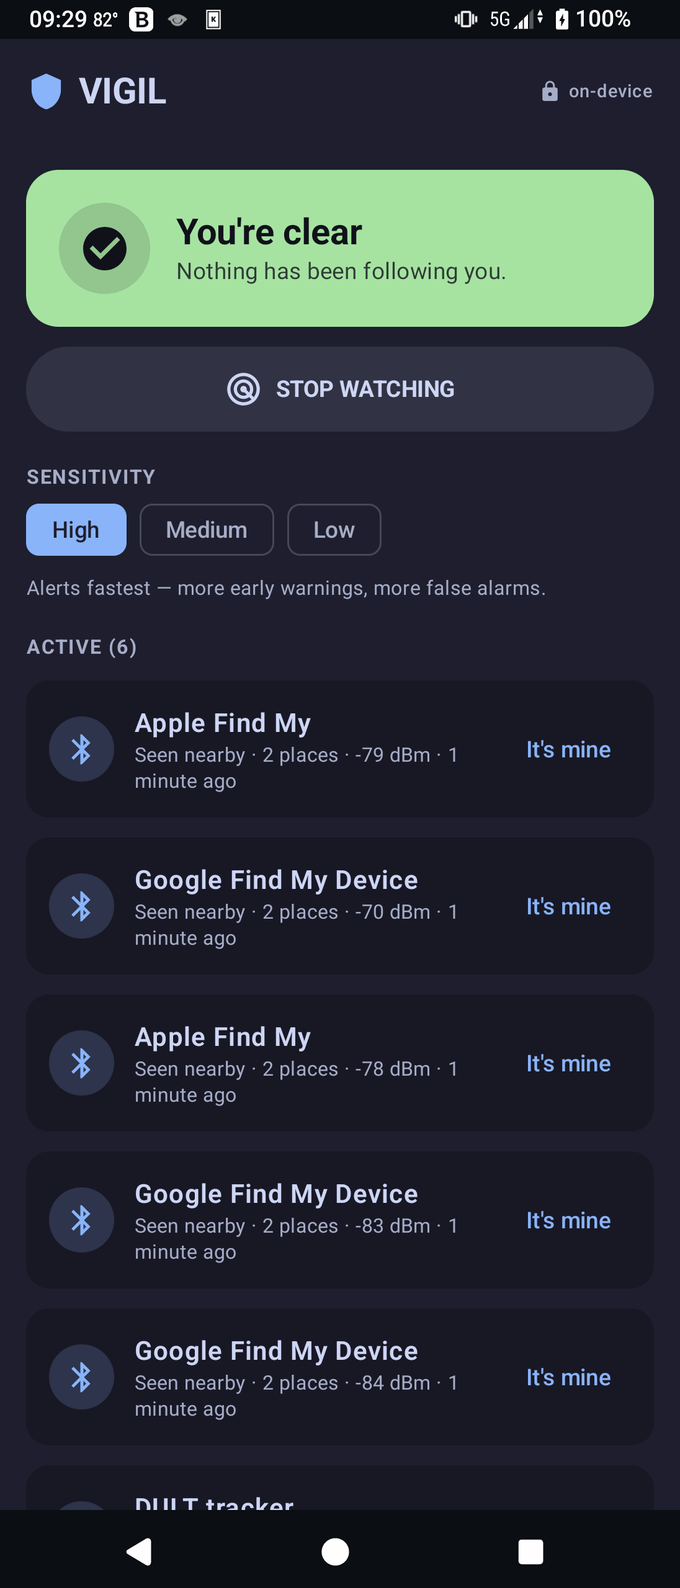
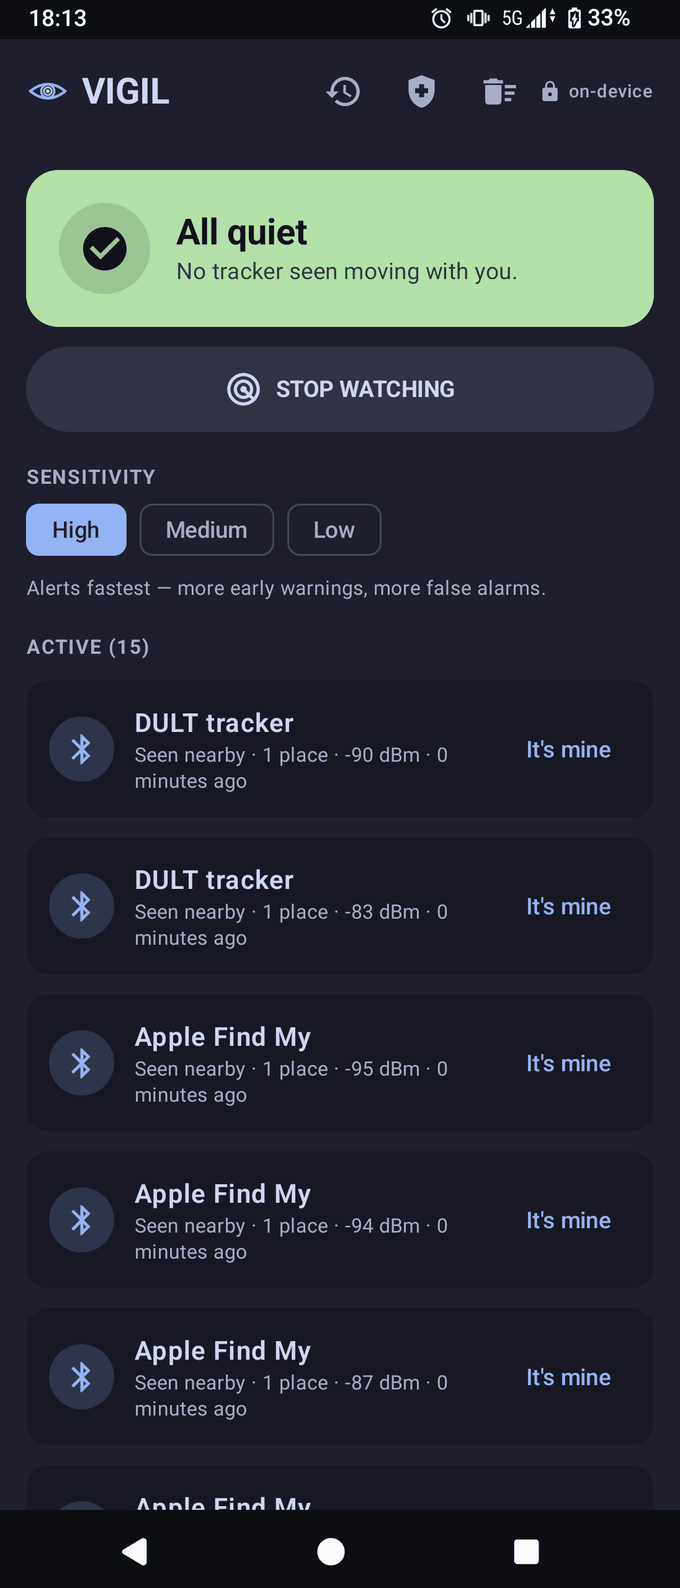
site: the active list is a real phone again, on the current app
Kara's phone at 18:13: "All quiet", sensitivity High, ACTIVE (15), with
today's header (History, Safety, Clear all). It replaces the earlier
build's "You're clear" shot as the site's active list (vigil-active.png,
680 px palette, ?v=2) and the README's watch list (main.png, full size).
The status bar's notification icons are painted over in the bar's own
colour; nothing else is touched, and the copies carry no EXIF.

Both alt texts and both notes drop the "earlier build" wording and say
the list is from a real phone, with real trackers nearby. The finder
shots stay labelled as the emulator with a simulated tag.

Claude-Session: https://claude.ai/code/session_012GMrfsTNwRyQu3zQfZEkeS

diff --git a/docs/index.html b/docs/index.html
@@ -238,8 +238,8 @@
 
     <div class="shots">
       <figure class="shot">
-        <img class="phone" src="img/vigil-active.png" width="1096" height="2560"
-          alt="VIGIL active list (earlier build, on a real phone): an ACTIVE (6) list of nearby Apple Find My and Google Find My Device trackers, each showing places seen, signal in dBm, time since last seen, and an It's-mine button." loading="lazy">
+        <img class="phone" src="img/vigil-active.png?v=2" width="1096" height="2560"
+          alt="VIGIL main screen on a real phone, sensitivity set to High: an &quot;All quiet: No tracker seen moving with you&quot; card above an ACTIVE (15) list of nearby trackers, DULT and Apple Find My at the top, each reading Seen nearby, with places, signal in dBm, how long ago, and an It's-mine button." loading="lazy">
         <figcaption><strong>The active list</strong>Every tracker heard in the last 10 minutes, with its status, places, signal and how long ago. Tap &ldquo;It's mine&rdquo; and your own gear drops out.</figcaption>
       </figure>
       <figure class="shot">
@@ -253,7 +253,7 @@
         <figcaption><strong>Getting warmer</strong>Live signal strength as you approach. &ldquo;Make it ring&rdquo; asks it to play its sound and tells you what it answered. A silent or modified tag won't ring; the meter is how you find that one.</figcaption>
       </figure>
     </div>
-    <p class="tl-foot" style="text-align:center">The active list is from an earlier build on a real phone: the current app says &ldquo;All quiet&rdquo; where it said &ldquo;You're clear&rdquo;, and its header adds History and Safety buttons. The locate and signal shots are VIGIL 0.1.14 on an Android emulator, with a simulated Google Find My Device tag. The screens are the real app; the tag isn't.</p>
+    <p class="tl-foot" style="text-align:center">The active list is from a real phone, with real trackers nearby. The locate and signal shots are VIGIL 0.1.14 on an Android emulator, with a simulated Google Find My Device tag. The screens are the real app; the tag isn't.</p>
   </div>
 </section>
 

diff --git a/README.md b/README.md
@@ -31,7 +31,7 @@ sustained window. VIGIL is built around that idea.
 ## Screenshots
 
 <p align="center">
-  <img src="docs/screenshots/main.png" width="230" alt="VIGIL main screen (earlier build, on a real phone): a You're clear card, the sensitivity selector, and an Active list of nearby trackers with It's mine buttons" />
+  <img src="docs/screenshots/main.png" width="230" alt="VIGIL main screen on a real phone: an All quiet card, the sensitivity selector set to High, and an Active list of 15 nearby trackers, DULT and Apple Find My at the top, each Seen nearby, with It's mine buttons" />
   &nbsp;
   <img src="docs/screenshots/finder-searching.png" width="230" alt="Hot/cold finder searching for a simulated Google Find My Device tag on an Android emulator: Searching… walk around, no signal yet" />
   &nbsp;
@@ -40,7 +40,7 @@ sustained window. VIGIL is built around that idea.
 
 <p align="center"><sub>The watch list &nbsp;·&nbsp; the hot/cold finder searching &nbsp;·&nbsp; homing in on a tracker, with “Make it ring”</sub></p>
 
-<p align="center"><sub>The watch list is from an earlier build on a real phone: the current app says “All quiet” where it said “You're clear”, and its header adds History and Safety buttons. The two finder shots are VIGIL 0.1.14 on an Android emulator, with a simulated Google Find My Device tag. The screens are the real app; the tag isn't.</sub></p>
+<p align="center"><sub>The watch list is from a real phone, with real trackers nearby. The two finder shots are VIGIL 0.1.14 on an Android emulator, with a simulated Google Find My Device tag. The screens are the real app; the tag isn't.</sub></p>
 
 ## Privacy first — fully offline
 
